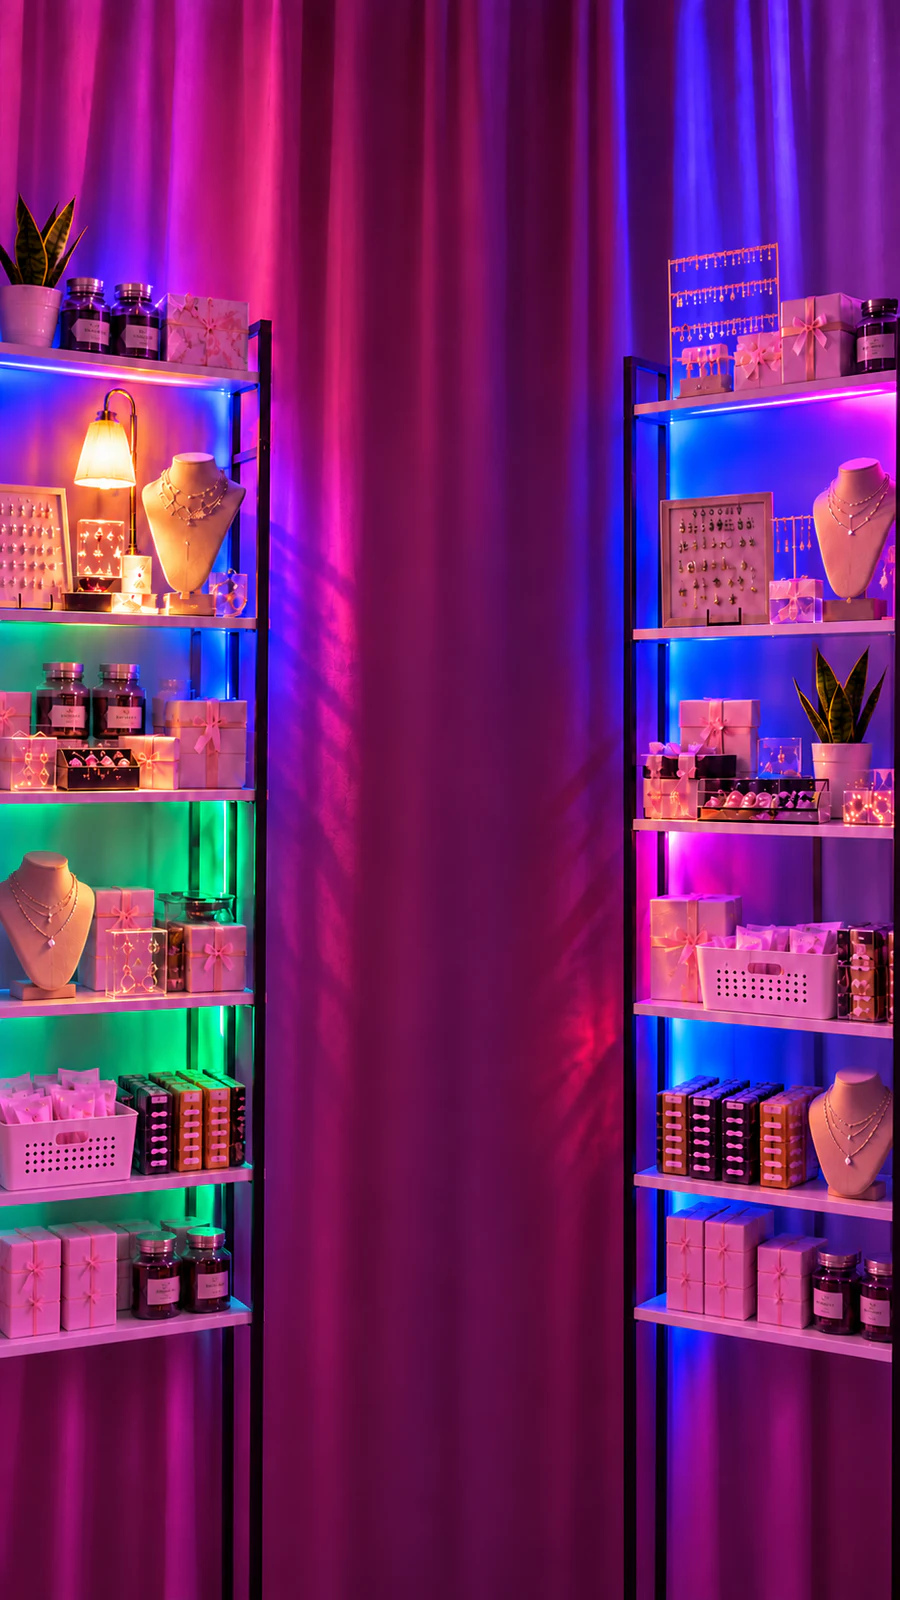
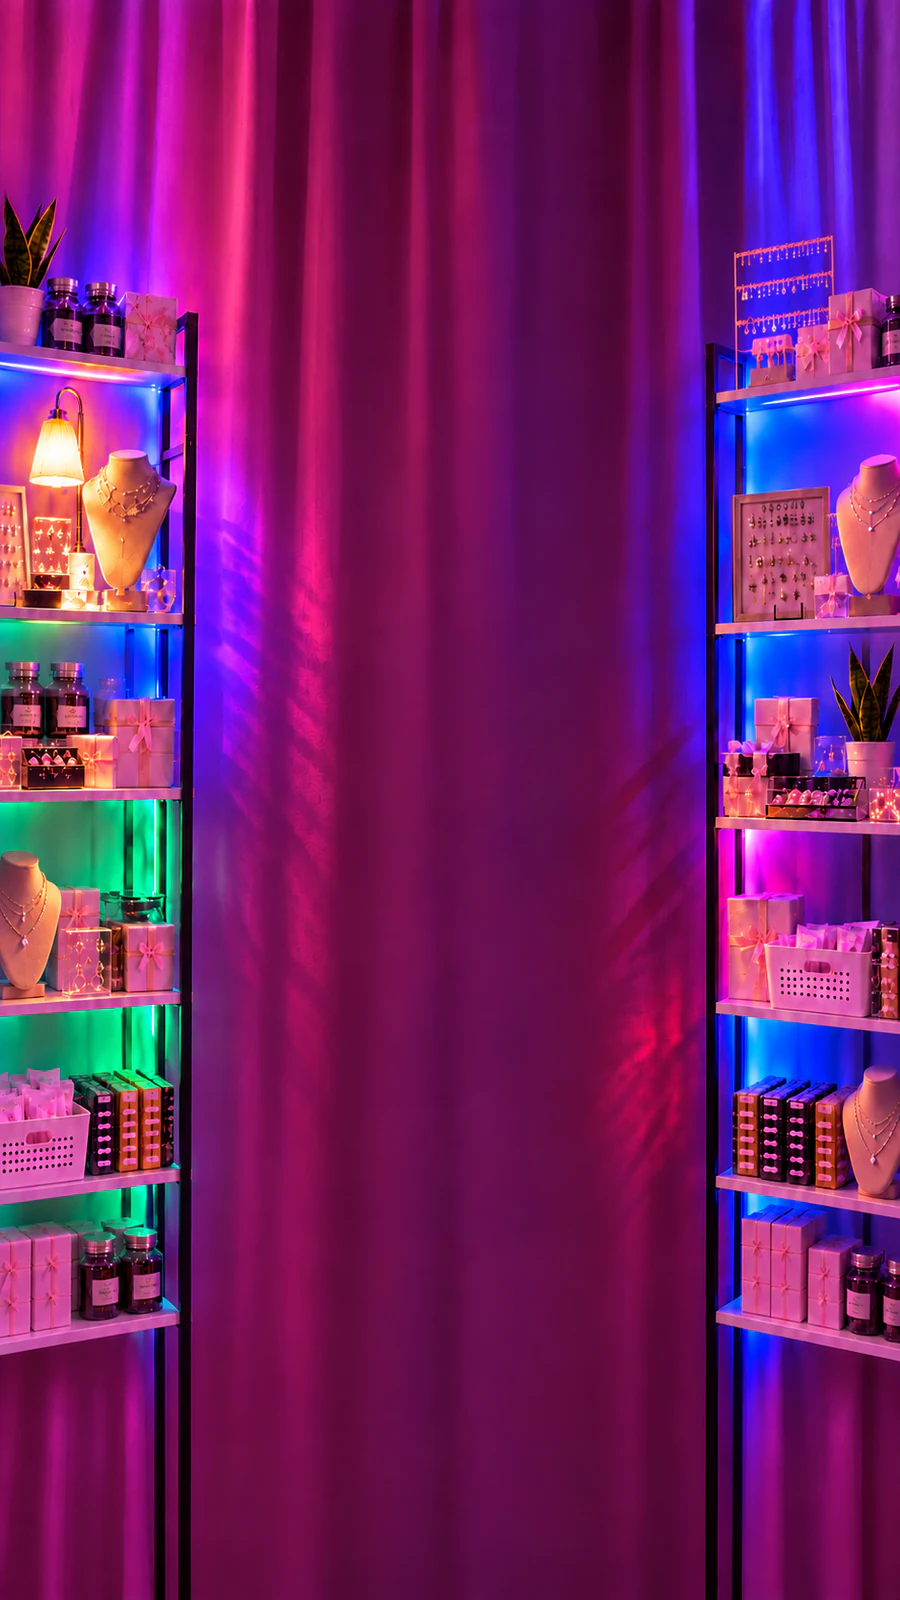
fix: protect neon butterfly hero copy

diff --git a/public/amethyst/neon-butterfly.css b/public/amethyst/neon-butterfly.css
@@ -119,7 +119,8 @@ body.bg-neon-butterfly :is(.hp-hero-headline, .tp-hero-title, .jp-hero-title, .m
   -webkit-text-fill-color: currentColor;
   font-family: "Playfair Display", Georgia, serif;
   font-weight: 600;
-  letter-spacing: -0.045em;
+  letter-spacing: -0.026em;
+  font-variant-ligatures: none;
   text-shadow: 0 2px 18px rgba(20, 0, 25, 0.92), 0 0 24px rgba(255, 42, 205, 0.22);
   animation: none;
   text-wrap: balance;
@@ -129,7 +130,7 @@ body.bg-neon-butterfly :is(.hp-hero-sub, .tp-hero-sub, .jp-hero-pitch, .jp-hero-
   color: #f1dfea;
   text-shadow: 0 2px 16px rgba(10, 0, 12, 0.94);
 }
-body.bg-neon-butterfly .hp-hero-sub { max-width: 54ch; }
+body.bg-neon-butterfly .hp-hero-sub { max-width: 44ch; }
 body.bg-neon-butterfly .jp-hero-eyebrow { color: #ff80e4; }
 
 body.bg-neon-butterfly :is(.hp-shop-btn, .hp-btn-primary, .hp-signup-submit, .tp-card-expand-cta, .tp-sheet-submit, .jp-spot-btn, .jp-final-btn) {
@@ -270,10 +271,11 @@ body.bg-neon-butterfly .hp-footer a:hover { color: #ff75df; }
 }
 
 @media (max-width: 767px) {
-  body.bg-neon-butterfly :is(.hp-hero, .tp-hero, .jp-hero, .mhf-hero, .bwb-hero, .bk-home-hero) { background-image: url('/amethyst/skins/neon-butterfly/kelly-studio-mobile.webp'); }
+  body.bg-neon-butterfly :is(.hp-hero, .tp-hero, .jp-hero, .mhf-hero, .bwb-hero, .bk-home-hero) { background-image: url('/amethyst/skins/neon-butterfly/kelly-studio-mobile.webp'); background-size: 120% 100%; background-position: center; }
   body.bg-neon-butterfly .hp-hero { min-height: 660px; }
   body.bg-neon-butterfly .hp-hero-inner { min-height: 630px; padding: 90px 24px 128px; }
   body.bg-neon-butterfly .hp-hero-headline { font-size: clamp(43px, 13vw, 62px); line-height: 1.02; }
+  body.bg-neon-butterfly .hp-hero-sub { max-width: 66vw; font-size: 17px; }
   body.bg-neon-butterfly :is(.tp-hero, .jp-hero) { padding: 96px 20px 126px; }
   body.bg-neon-butterfly .jp-hero-card { padding: 30px 22px; }
   .nb-butterfly--crown { width: 106px; left: 8%; top: 4%; opacity: .98; }

diff --git a/tests/neon-butterfly-skin.test.ts b/tests/neon-butterfly-skin.test.ts
@@ -98,6 +98,8 @@ describe('Neon Butterfly Amethyst skin', () => {
     const motion = read('public', 'amethyst', 'neon-butterfly.js')
 
     expect(css).toContain('body.bg-neon-butterfly')
+    expect(css).toContain('font-variant-ligatures: none')
+    expect(css).toContain('.hp-hero-sub { max-width: 44ch; }')
     expect(css).toContain('kelly-studio-desktop.webp')
     expect(css).toContain('kelly-studio-mobile.webp')
     expect(css).toContain('@media (prefers-reduced-motion: reduce)')

diff --git a/vault/2026-09-14-neon-butterfly-kelly-studio-rebuild.md b/vault/2026-09-14-neon-butterfly-kelly-studio-rebuild.md
@@ -18,7 +18,9 @@ approved Kelly studio composition: plum curtain, black jewelry shelving,
   `kelly-studio-desktop.webp` and `kelly-studio-mobile.webp`.
 - The final built-in ImageGen masters are
   `exec-87e55ae8-5d84-4066-a4a6-8dc1f860465c.png` (wide) and
-  `exec-7d67d65c-2957-44a6-90b1-4a44a0642edc.png` (portrait).
+  `exec-d1fd575f-9019-4aa4-9287-c680d1ec6672.png` (portrait). The portrait
+  composition intentionally crops more of both shelves so mobile copy remains
+  inside an uninterrupted center-curtain safe area.
 - The three butterfly tubes are isolated directly from Kelly's reference signs
   rather than redrawn as generic icons. Transparent export padding was fixed so
   no black bars or crop-box pixels remain.
@@ -27,6 +29,10 @@ approved Kelly studio composition: plum curtain, black jewelry shelving,
   signs away from the jewelry shelves.
 - Pink and violet use saturated color-only bloom; yellow retains the approved
   warm white-hot core and yellow halo.
+- The hero headline uses slightly relaxed tracking with display ligatures
+  disabled so the “fl” pair remains crisp at nonstandard zoom levels. The
+  supporting line is constrained to the center curtain safe area and narrows
+  to 66% of the mobile viewport so neither edge runs into the shelving.
 - Each sign has independent, staggered left/right wing motion. The surrounding
   set also has restrained LED color drift, lamp shimmer, and 24 intermittent
   sparkle points. Pause/Resume, hidden-page pausing, and reduced-motion support
